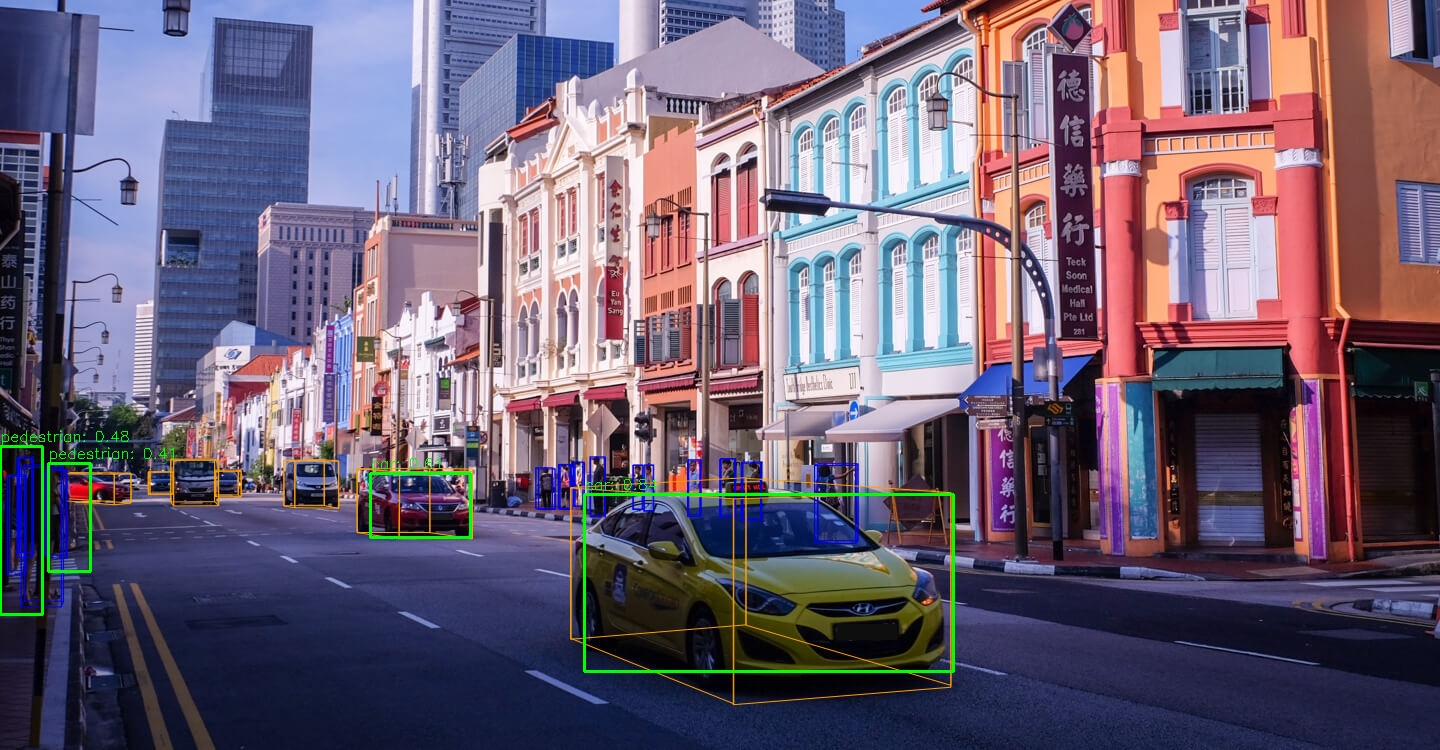
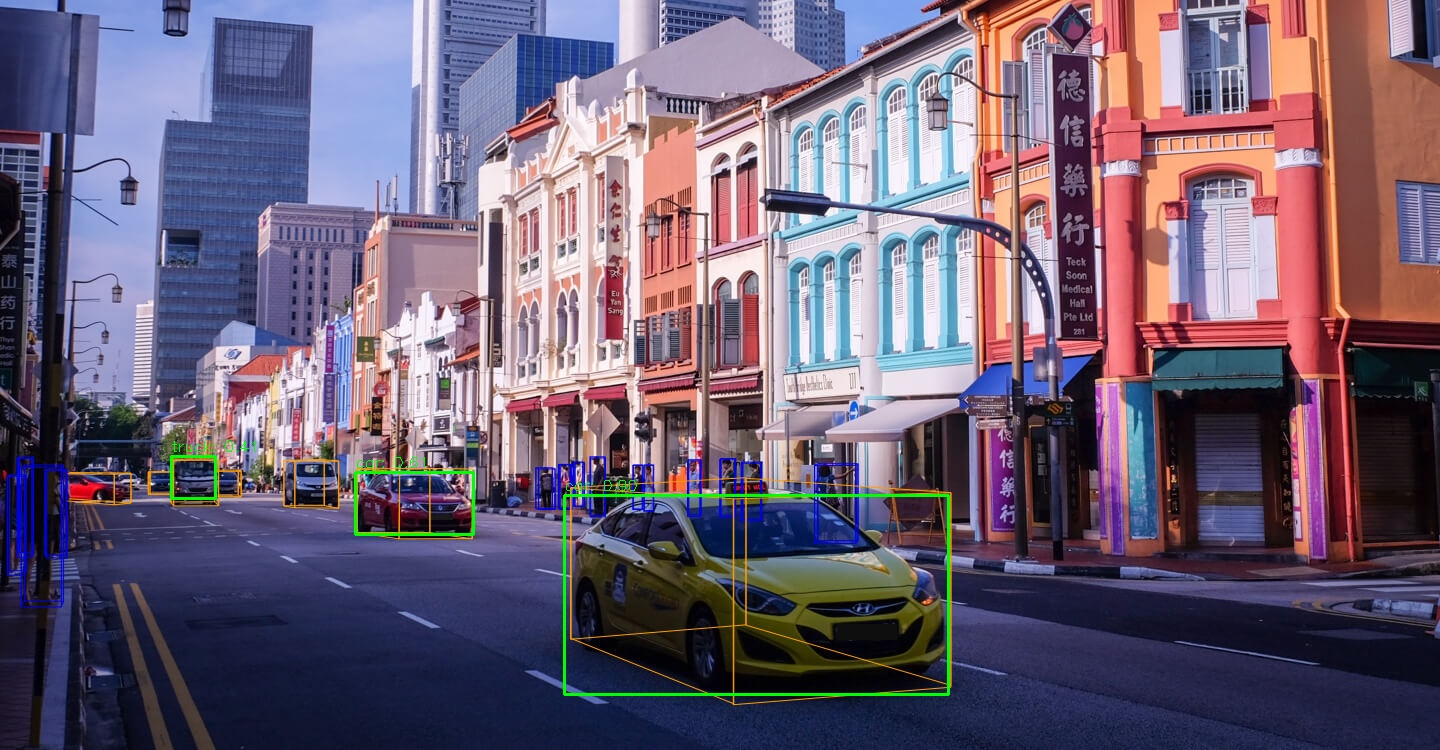
feat: 换用 YOLOv8n COCO 模型替换 NuScenes Faster RCNN

Changed region(s): [[0.375, 0.644, 0.6875, 0.9507], [0.0, 0.552, 0.1875, 0.828], [0.2188, 0.6133, 0.3438, 0.736]]

diff --git a/src/faster_rcnn_ros/src/faster_rcnn_detector.cpp b/src/faster_rcnn_ros/src/faster_rcnn_detector.cpp
@@ -49,29 +49,22 @@ FasterRCNNDetector::FasterRCNNDetector(const std::string& engine_path,
     // 加载 TRT engine
     loadEngine(engine_path);
 
-    // 仅为输入分配固定显存（1×3×H×W float）
-    CHECK_CUDA(cudaMalloc(&d_input_, 3 * input_h_ * input_w_ * sizeof(float)));
+    // 分配输入显存 (1×3×640×640)
+    CHECK_CUDA(cudaMalloc(&d_input_,  3 * input_h_ * input_w_ * sizeof(float)));
 
-    // 动态输出分配器（DDS, 每个输出形状在推理时确定）
-    scores_alloc_ = std::make_unique<OutputAllocator>();
-    labels_alloc_ = std::make_unique<OutputAllocator>();
-    boxes_alloc_  = std::make_unique<OutputAllocator>();
+    // 分配输出显存 (1×84×8400)
+    CHECK_CUDA(cudaMalloc(&d_output_, (4 + NUM_CLASSES) * NUM_ANCHORS * sizeof(float)));
 
-    // 设置输入形状与地址（固定分辨率，只需设一次）
-    context_->setInputShape("image", nvinfer1::Dims4{1, 3, input_h_, input_w_});
-    context_->setTensorAddress("image", d_input_);
-
-    // 注册输出分配器
-    context_->setOutputAllocator("scores", scores_alloc_.get());
-    context_->setOutputAllocator("labels", labels_alloc_.get());
-    context_->setOutputAllocator("boxes",  boxes_alloc_.get());
+    // 绑定张量地址（YOLOv8 静态形状，无需 setInputShape）
+    context_->setTensorAddress("images",  d_input_);
+    context_->setTensorAddress("output0", d_output_);
 }
 
 // ─────────────────────────── Destructor ─────────────────────────────────────
 FasterRCNNDetector::~FasterRCNNDetector() {
-    if (d_input_) cudaFree(d_input_);
-    if (stream_)  cudaStreamDestroy(stream_);
-    // OutputAllocator 析构函数自动释放各自的显存
+    if (d_input_)  cudaFree(d_input_);
+    if (d_output_) cudaFree(d_output_);
+    if (stream_)   cudaStreamDestroy(stream_);
 }
 
 // ─────────────────────────── Load Engine ────────────────────────────────────
@@ -103,26 +96,27 @@ void FasterRCNNDetector::loadEngine(const std::string& engine_path) {
 
 // ─────────────────────────── Inference ──────────────────────────────────────
 std::vector<Detection> FasterRCNNDetector::infer(const cv::Mat& image, float threshold) {
-    // ── 1. Letterbox 预处理：等比缩放 + 灰边填充，保持宽高比 ──────────────
-    // 1a. 计算统一缩放比，取高/宽方向的最小值以保证图像完整放入网络输入
+    // ── 1. Letterbox 预处理（YOLOv8 标准训练预处理）──────────────────────
+    // scale = min(640/H, 640/W)，等比缩放 + 灰边填充，保持宽高比
     float scale = std::min(
         static_cast<float>(input_h_) / static_cast<float>(image.rows),
         static_cast<float>(input_w_) / static_cast<float>(image.cols)
     );
     int new_w = static_cast<int>(std::round(image.cols * scale));
     int new_h = static_cast<int>(std::round(image.rows * scale));
+    int pad_x = (input_w_ - new_w) / 2;
+    int pad_y = (input_h_ - new_h) / 2;
 
-    // 1b. 等比缩放
     cv::Mat resized;
     cv::resize(image, resized, cv::Size(new_w, new_h), 0, 0, cv::INTER_LINEAR);
 
-    // 1c. 创建 letterbox 画布，用 114 灰填充（YOLO/DNN 常用中性值）
-    int pad_x = (input_w_ - new_w) / 2;
-    int pad_y = (input_h_ - new_h) / 2;
+    // 处理 RGBA 图像（如 kace.png）
+    if (resized.channels() == 4) cv::cvtColor(resized, resized, cv::COLOR_BGRA2BGR);
+
     cv::Mat canvas(input_h_, input_w_, CV_8UC3, cv::Scalar(114, 114, 114));
     resized.copyTo(canvas(cv::Rect(pad_x, pad_y, new_w, new_h)));
 
-    // 1d. BGR→RGB + /255.0 + CHW 排列（画布已是目标分辨率，无二次缩放）
+    // ── 2. BGR→RGB + /255.0 + CHW 排列 ───────────────────────────────────
     cv::Mat blob;
     cv::dnn::blobFromImage(canvas, blob,
                            1.0 / 255.0,
@@ -132,68 +126,88 @@ std::vector<Detection> FasterRCNNDetector::infer(const cv::Mat& image, float thr
                            /*crop=*/false,
                            CV_32F);
 
-    // ── 2. 上传输入到 GPU ─────────────────────────────────────────────────
+    // ── 3. 上传输入到 GPU ─────────────────────────────────────────────────
     const size_t input_bytes = 3 * input_h_ * input_w_ * sizeof(float);
     CHECK_CUDA(cudaMemcpyAsync(d_input_, blob.data, input_bytes,
                                cudaMemcpyHostToDevice, stream_));
 
-    // ── 3. TRT 8.5 enqueueV3（替代旧的 executeV2/enqueueV2）────────────────
-    //    DDS 输出：scores(-1,) labels(-1,) boxes(-1,4)
-    //    引擎会回调 OutputAllocator::reallocateOutput / notifyShape
+    // ── 4. TRT 推理 ───────────────────────────────────────────────────────
     if (!context_->enqueueV3(stream_)) {
         throw std::runtime_error("TensorRT enqueueV3 failed");
     }
     CHECK_CUDA(cudaStreamSynchronize(stream_));
 
-    // ── 4. 读取动态输出维度 ───────────────────────────────────────────────
-    int n_dets = 0;
-    if (scores_alloc_->outputDims.nbDims > 0) {
-        n_dets = static_cast<int>(scores_alloc_->outputDims.d[0]);
+    // ── 5. 下载输出 (1×84×8400) ───────────────────────────────────────────
+    const int out_size = (4 + NUM_CLASSES) * NUM_ANCHORS;
+    std::vector<float> h_output(out_size);
+    CHECK_CUDA(cudaMemcpy(h_output.data(), d_output_,
+                          out_size * sizeof(float), cudaMemcpyDeviceToHost));
+
+    // ── 6. 解码 YOLOv8 输出 [84, 8400] ────────────────────────────────────
+    // 内存布局: h_output[c * NUM_ANCHORS + i] = anchor i 的 channel c
+    //   [0:4]  = cx, cy, w, h  (640×640 像素空间)
+    //   [4:84] = 80 类别分数（已经过 sigmoid）
+    std::vector<cv::Rect>  boxes_nms;
+    std::vector<float>     scores_nms;
+    std::vector<int>       class_nms;
+
+    for (int i = 0; i < NUM_ANCHORS; ++i) {
+        // 找最大类别分数
+        float max_score = 0.f;
+        int   max_cls   = 0;
+        for (int c = 0; c < NUM_CLASSES; ++c) {
+            float s = h_output[(4 + c) * NUM_ANCHORS + i];
+            if (s > max_score) { max_score = s; max_cls = c; }
+        }
+        if (max_score < threshold) continue;
+
+        float cx = h_output[0 * NUM_ANCHORS + i];
+        float cy = h_output[1 * NUM_ANCHORS + i];
+        float bw = h_output[2 * NUM_ANCHORS + i];
+        float bh = h_output[3 * NUM_ANCHORS + i];
+
+        int ix = static_cast<int>(cx - bw / 2.f);
+        int iy = static_cast<int>(cy - bh / 2.f);
+        int iw = static_cast<int>(bw);
+        int ih = static_cast<int>(bh);
+        boxes_nms.emplace_back(ix, iy, iw, ih);
+        scores_nms.push_back(max_score);
+        class_nms.push_back(max_cls);
     }
-    if (n_dets <= 0 || !scores_alloc_->buffer) {
-        return {};
-    }
 
-    // ── 5. 拷贝结果到主机 ─────────────────────────────────────────────────
-    std::vector<float> h_scores(n_dets);
-    std::vector<int>   h_labels(n_dets);
-    std::vector<float> h_boxes(n_dets * 4);
+    if (boxes_nms.empty()) return {};
 
-    CHECK_CUDA(cudaMemcpy(h_scores.data(), scores_alloc_->buffer,
-                          n_dets * sizeof(float), cudaMemcpyDeviceToHost));
-    CHECK_CUDA(cudaMemcpy(h_labels.data(), labels_alloc_->buffer,
-                          n_dets * sizeof(int),   cudaMemcpyDeviceToHost));
-    CHECK_CUDA(cudaMemcpy(h_boxes.data(),  boxes_alloc_->buffer,
-                          n_dets * 4 * sizeof(float), cudaMemcpyDeviceToHost));
+    // ── 7. NMS ────────────────────────────────────────────────────────────
+    std::vector<int> keep;
+    cv::dnn::NMSBoxes(boxes_nms, scores_nms, threshold, NMS_THRESH, keep);
 
-    // ── 6. 坐标反变换：letterbox 网络坐标 → 原图坐标 ────────────────────
-    //    网络输出坐标 → 减去 padding → 除以缩放比 → 截断到原图范围
+    // ── 8. 坐标反变换：letterbox 网络坐标 → 原图坐标 ─────────────────────
     std::vector<Detection> detections;
-    detections.reserve(n_dets);
+    detections.reserve(keep.size());
 
-    for (int i = 0; i < n_dets; ++i) {
-        if (h_scores[i] < threshold) continue;
+    for (int idx : keep) {
+        const auto& b = boxes_nms[idx];
 
-        auto unmap_x = [&](float cx) -> int {
+        auto unmap_x = [&](float cx_) -> int {
             return std::max(0, std::min(
-                static_cast<int>((cx - pad_x) / scale), image.cols - 1));
+                static_cast<int>((cx_ - pad_x) / scale), image.cols - 1));
         };
-        auto unmap_y = [&](float cy) -> int {
+        auto unmap_y = [&](float cy_) -> int {
             return std::max(0, std::min(
-                static_cast<int>((cy - pad_y) / scale), image.rows - 1));
+                static_cast<int>((cy_ - pad_y) / scale), image.rows - 1));
         };
 
-        int x1 = unmap_x(h_boxes[i*4+0]);
-        int y1 = unmap_y(h_boxes[i*4+1]);
-        int x2 = unmap_x(h_boxes[i*4+2]);
-        int y2 = unmap_y(h_boxes[i*4+3]);
+        int x1 = unmap_x(static_cast<float>(b.x));
+        int y1 = unmap_y(static_cast<float>(b.y));
+        int x2 = unmap_x(static_cast<float>(b.x + b.width));
+        int y2 = unmap_y(static_cast<float>(b.y + b.height));
 
         if (x2 <= x1 || y2 <= y1) continue;
 
         detections.push_back({
             cv::Rect(cv::Point(x1, y1), cv::Point(x2, y2)),
-            h_scores[i],
-            h_labels[i]
+            scores_nms[idx],
+            class_nms[idx]
         });
     }
     return detections;

diff --git a/src/faster_rcnn_ros/include/faster_rcnn_ros/faster_rcnn_detector.hpp b/src/faster_rcnn_ros/include/faster_rcnn_ros/faster_rcnn_detector.hpp
@@ -14,41 +14,11 @@ struct Detection {
     int class_id;
 };
 
-// TRT 8.5+ IOutputAllocator: 动态形状输出，推理时由 TRT 回调分配显存
-class OutputAllocator : public nvinfer1::IOutputAllocator {
-public:
-    ~OutputAllocator() {
-        if (buffer) cudaFree(buffer);
-    }
-
-    // 仅在需要更大空间时重新分配，避免每帧 malloc/free
-    void* reallocateOutput(char const* /*tensorName*/, void* /*currentMemory*/,
-                           uint64_t size, uint64_t /*alignment*/) noexcept override {
-        if (size > allocatedSize) {
-            if (buffer) cudaFree(buffer);
-            buffer = nullptr;
-            if (cudaMalloc(&buffer, size) != cudaSuccess) return nullptr;
-            allocatedSize = size;
-        }
-        return buffer;
-    }
-
-    // TRT 推理后回调，通知实际输出维度
-    void notifyShape(char const* /*tensorName*/,
-                     nvinfer1::Dims const& dims) noexcept override {
-        outputDims = dims;
-    }
-
-    void*            buffer        = nullptr;
-    uint64_t         allocatedSize = 0;
-    nvinfer1::Dims   outputDims{};
-};
-
+// YOLOv8 TRT Detector (COCO 80类, 固定输入 640×640, 输出 [1,84,8400])
 class FasterRCNNDetector {
 public:
-    // engine: faster_rcnn.engine (FP16, input 1×3×375×1242)
     FasterRCNNDetector(const std::string& engine_path, const std::string& labels_path,
-                       int input_h = 375, int input_w = 1242);
+                       int input_h = 640, int input_w = 640);
     ~FasterRCNNDetector();
 
     std::vector<Detection> infer(const cv::Mat& image, float threshold = 0.5f);
@@ -60,15 +30,17 @@ private:
     std::unique_ptr<nvinfer1::ICudaEngine>       engine_;
     std::unique_ptr<nvinfer1::IExecutionContext>  context_;
 
-    void*        d_input_ = nullptr;   // 输入显存 (1×3×H×W float)
-    cudaStream_t stream_  = nullptr;
-
-    // 动态形状输出分配器（DDS）
-    std::unique_ptr<OutputAllocator> scores_alloc_;
-    std::unique_ptr<OutputAllocator> labels_alloc_;
-    std::unique_ptr<OutputAllocator> boxes_alloc_;
+    void*        d_input_  = nullptr;  // 输入显存  (1×3×640×640 float)
+    void*        d_output_ = nullptr;  // 输出显存  (1×84×8400  float)
+    cudaStream_t stream_   = nullptr;
 
     int input_h_, input_w_;
+
+    // YOLOv8 固定超参
+    static constexpr int   NUM_ANCHORS  = 8400;
+    static constexpr int   NUM_CLASSES  = 80;
+    static constexpr float NMS_THRESH   = 0.45f;
+
     std::vector<std::string> class_names_;
 };
 
